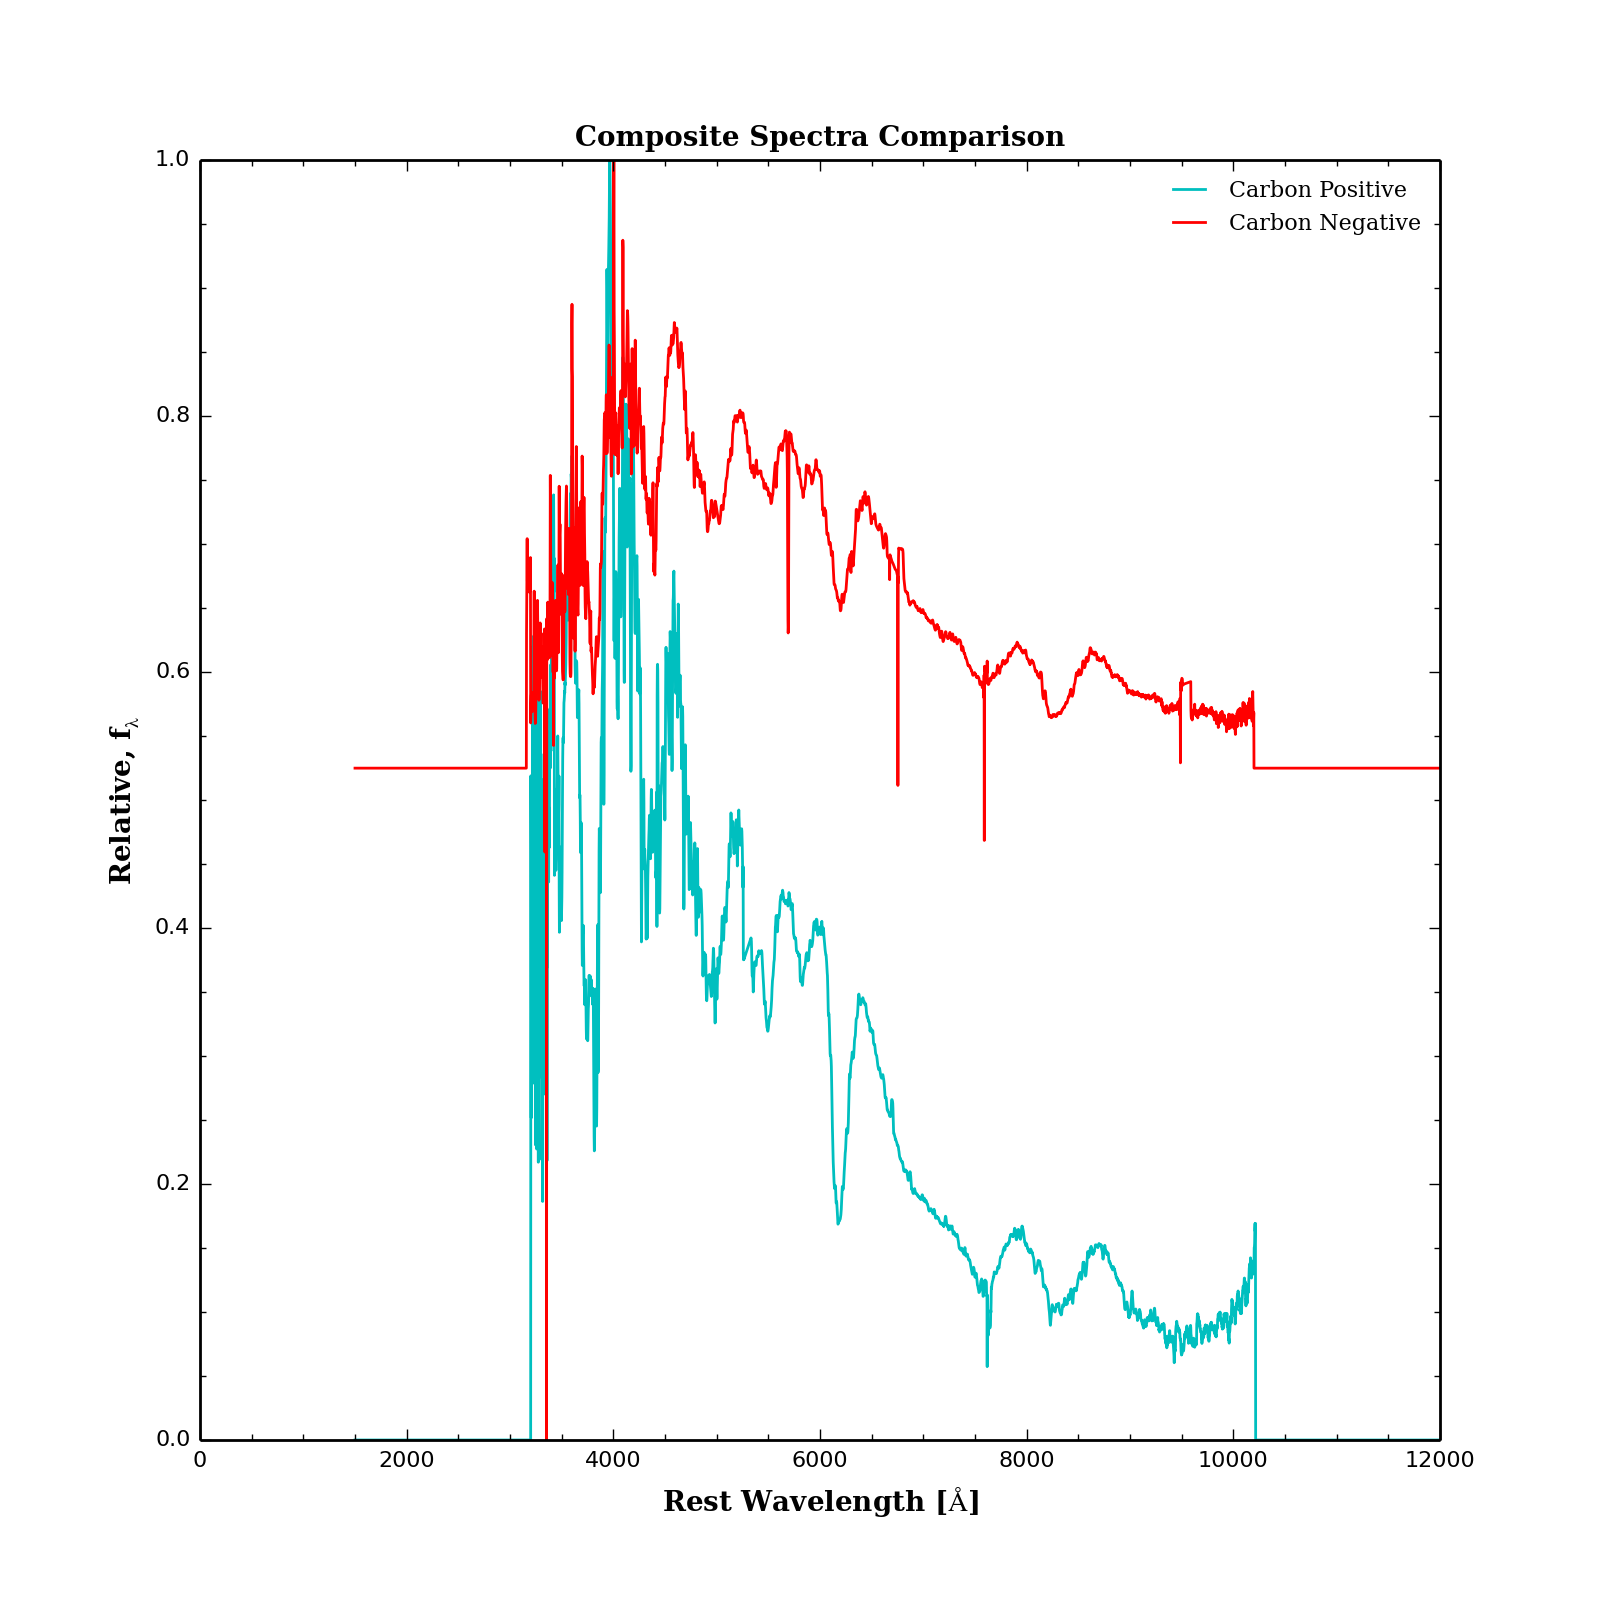
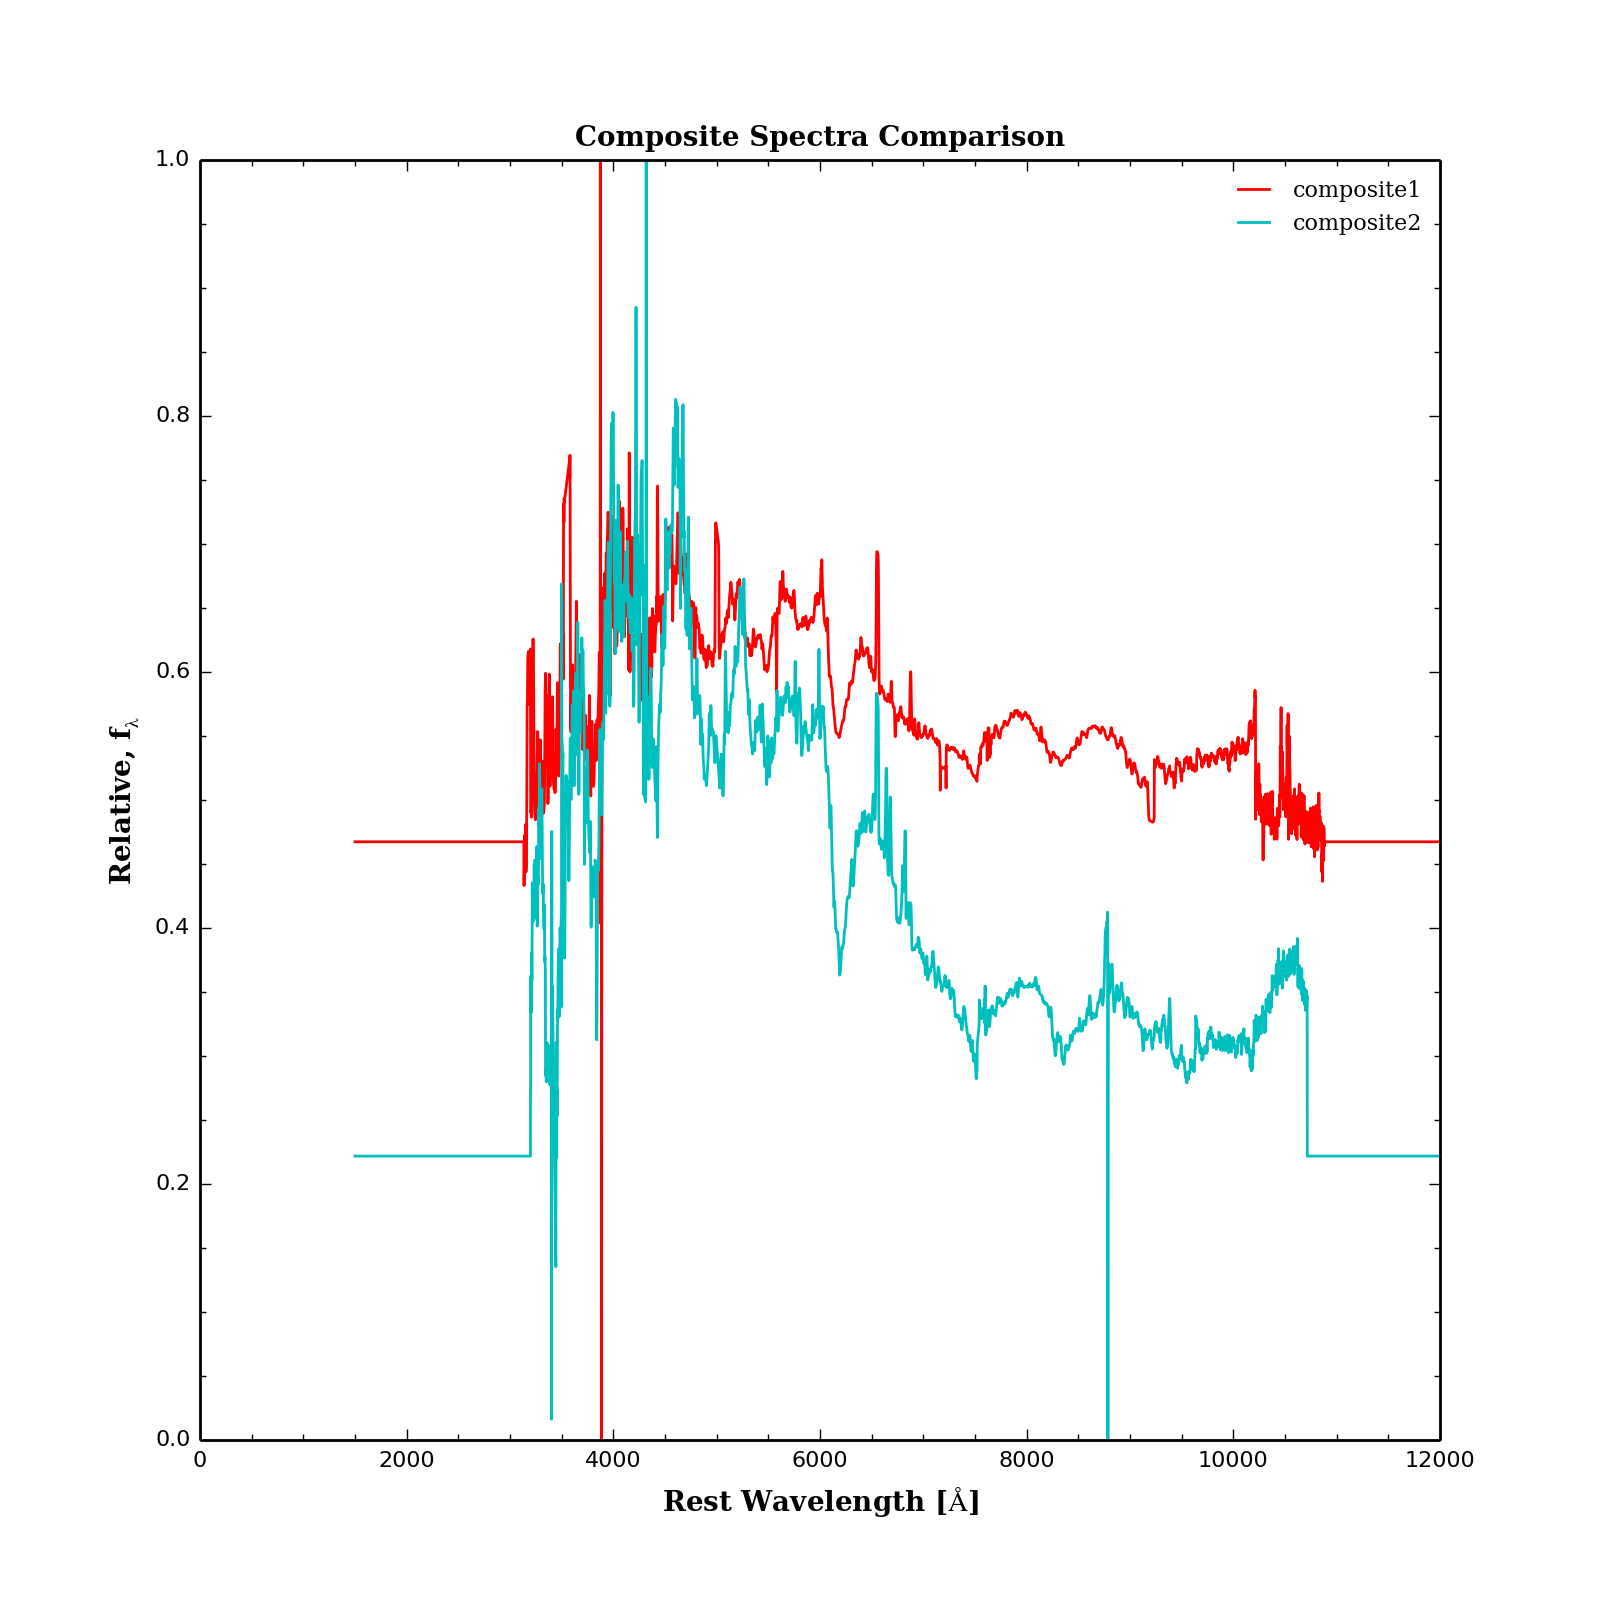
trying to track down bugs
failing so far. my computer power cable is broken, so im out of
commission until i fix it or get a new one.

diff --git a/src/Run.py b/src/Run.py
@@ -50,7 +50,9 @@ highindex = np.where(d["composite1"].wavelength == composite.find_nearest(d["com
 #print 'Plot saved as: ' + plot_name
 #plt.show()
 
-#Read whatever you sasved the table as, iterates over however many composites you used. 
+#Read whatever you sasved the table as, iterates over however many composites you used.
+#This is how you have to address things if you want to iterate over queries.
+#The n+1 makes the first item composite1, not composite0.
 for n in range(queries):
     d["data{0}".format(n+1)]         = Table.read(d["composite{0}".format(n+1)].savedname, format='ascii')
     d["wavelengths{0}".format(n+1)]  = np.array([d["data{0}".format(n+1)]["Wavelength"]])
@@ -60,42 +62,49 @@ for n in range(queries):
 
 # From now on, list the data you want to plot as [ Xdata, Ydata, Xdata_2, Ydata_2]
 #This chunk will create an array that's the right length for however many queries you used.
-plot_array = []
-name_array = []
+plot_array     = []
+name_array     = []
 residual_array = []
 variance_array = []
 for n in range(queries):
     plot_array.append(d["wavelengths{0}".format(n+1)])
     plot_array.append(d["fluxes{0}".format(n+1)])
     residual_array.append(d["wavelengths{0}".format(n+1)])
+    residual_list = abs(np.array([d["fluxes{0}".format(n+1)]-d["fluxes1"]]))
+    print residual_list
     residual_array.append(np.array([d["fluxes{0}".format(n+1)]-d["fluxes1"]]))
     variance_array.append(d["wavelengths{0}".format(n+1)])
     variance_array.append(d["variances{0}".format(n+1)])
     name_array.append("composite{0}".format(n+1))
+    name_array.append(" ")
     
 ##################
 #If you want to use custom names for your composites,
 #fill out and uncomment this next line
-#name_array = ["composite1name", "composite2name", etc]
+#name_array = ["composite1name", " ", "composite2name", " ", etc]
 ##################
 
-Relative_Flux   = plot_array # Want to plot a composite of multiple spectrum
+Relative_Flux   = plot_array #plots all given composites
 #Technically, the variances are not the residuals. Plotting them is useful, but it's mislabeled here.
 ## Do you want to plot the variance or the residual? The residual is something else that can be plotted. (4/13)
+###We should be able to plot both. I've created two separate arrays, and they both print just fine on this end. (also 4/13)
 Residuals       = residual_array # This is giving nan values when it's normalized, I'm not sure why
 Spectra_Bin     = [] 
 Age             = [] 
 Delta           = [] 
 Redshift        = []
-# Can name_array put an empty "  " space between each associated data name 
-Names           = ["Carbon Positive", "","Carbon Negative",""] # the names corresponding to each composite go here
-#Names           = name_array #Every spectra is being labeled with the entire name_array instead of one each.
+# Can name_array put an empty "  " space between each associated data name
+# yes
+#Names           = ["Carbon Positive", "","Carbon Negative",""] # the names corresponding to each composite go here
+## If you want custom names ^^^, uncomment and use line 82.
+##Otherwise it'll default to just labeling composites in order.
+Names           = name_array
 Show_Data       = [Relative_Flux, Residuals, Spectra_Bin, Age , Delta , Redshift]
 
 ## Available Plots:  Relative Flux, Residuals, Spectra/Bin, Age, Delta, Redshift
 ##                   0              1          2            3    4      5         
 # the plots you want to create
-Plots        = [0] 
+Plots        = [0,1] 
 
 image_title  = "../plots/" + str(sys.argv[1]) + "_composites.png"
 print "Plot saved as: " + image_title

diff --git a/src/Plotting.py b/src/Plotting.py
@@ -133,7 +133,8 @@ def main(Show_Data , Plots , image_title , title, Names):
 # verses colums. So, I changed the file renaming and added .T
 #############################################################
     def Scaling(data):
-        scaled = [] 
+	#print data
+        scaled = []
         scaled = ((data-min(data))/(max(data)-min(data)))
         return scaled 
 #############################################################
@@ -182,7 +183,9 @@ def main(Show_Data , Plots , image_title , title, Names):
         plt.ylabel('Residuals', fontdict = font)
         for j in range(len_RS):
             if j % 2 == 0:
-                print RS[j+1]
+                #print RS[j+1]
+		#There's something wrong with the dimensionality of x and y here
+		#not sure what it is...if I print it, I can't see the entire array, it's too big.
                 plt.plot(RS[j], RS[j+1], label = "RMS of residuals", ls = '-')
         #plt.plot(RS[0], RS[1], label = "RMS of residuals", ls = '-')
         RSxticklabels = Resid.get_xticklabels()
